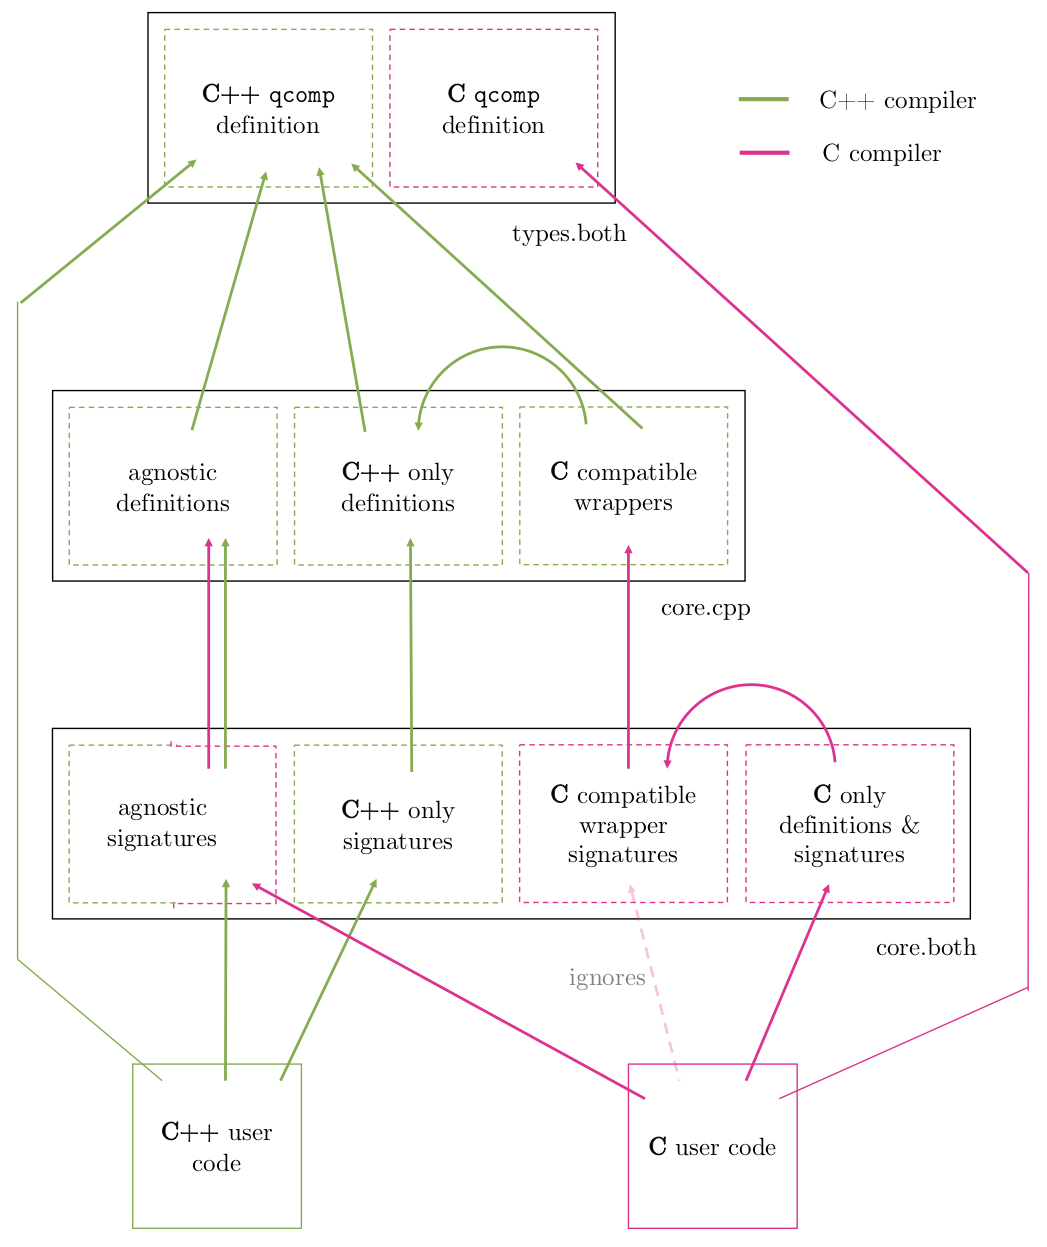
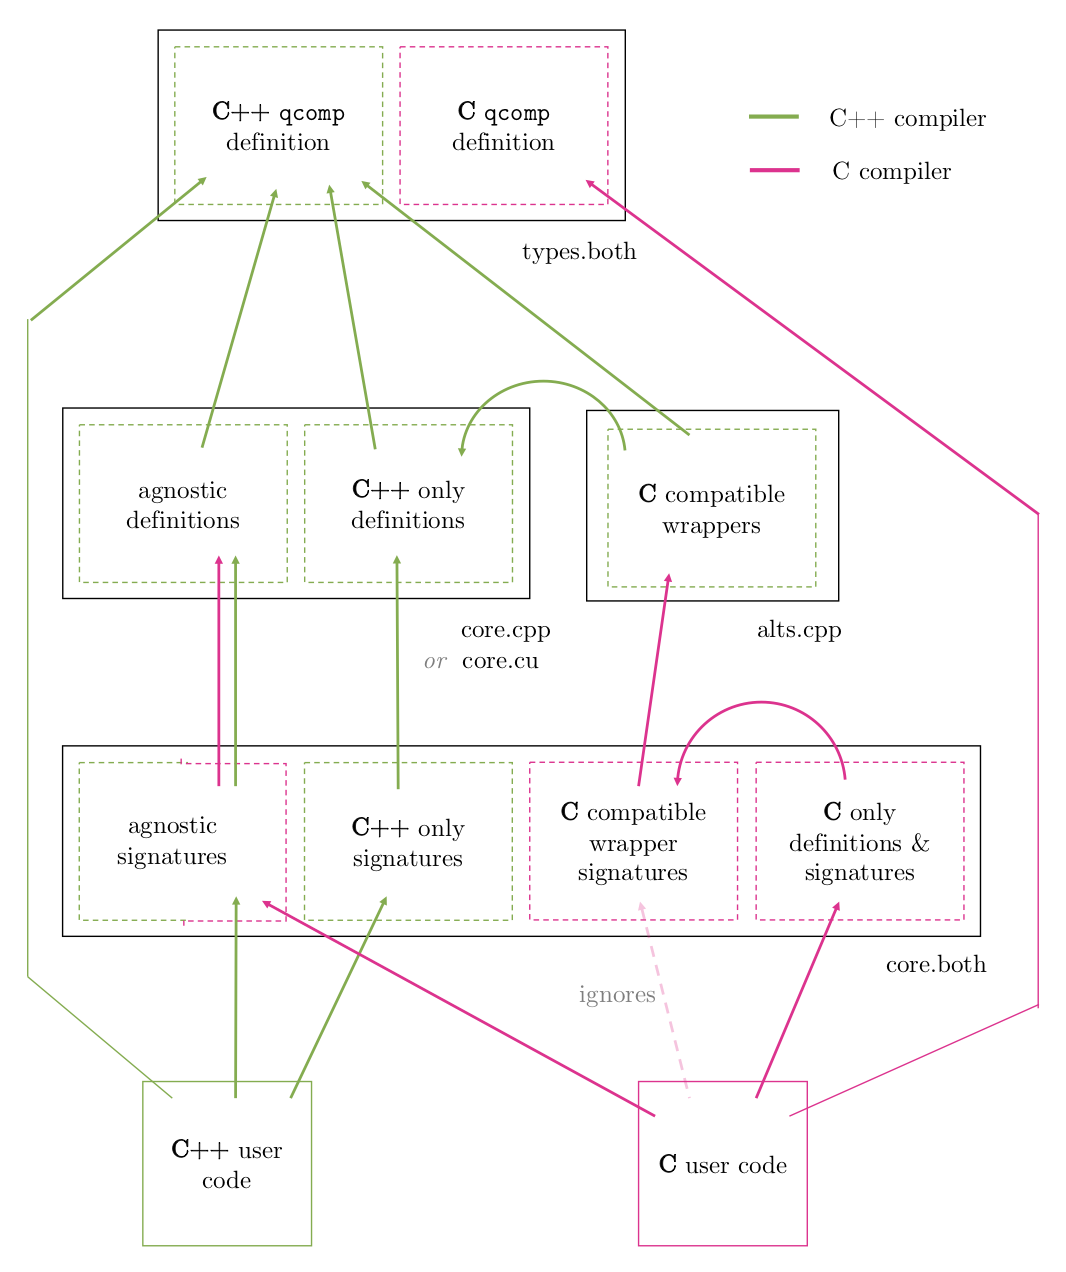
separated C-compatible wrappers
into a new file, so that alternate backends (substitutions of core.cpp) don't need to duplicate wrappers

diff --git a/src/alts.cpp b/src/alts.cpp
@@ -1,0 +1,28 @@
+/*
+ * This file contains C-friendly wrappers around the C++ functions
+ * which cannot be directly called from C before they pass or receive
+ * qcomp by-value. This file is always pre-compiled in C++ before 
+ * compiling user code (in C or C++). Here, qcomp is always 
+ * resolved to the C++ complex type. We disable name-mangling 
+ * (via extern "C") so that a user's C code can use these functions.
+ * These "alternatives" are defined here so that core.cpp (and
+ * other backends, like core.cu) don't need to duplicate wrappers.
+ */
+
+#include "core.both"
+
+
+// disable name-mangling so the below symbols, once compiled by the
+// C++ compiler, are accessible to the c program
+extern "C" {
+
+    // C-friendly alternatives to the C++ funcs which handle qcomp values
+    double myDoubleFunc_alt(qcomp* a) {
+        return myDoubleFunc(*a);
+    }
+    void myCompFunc_alt(qcomp* out, qcomp *in) {
+        *out = myCompFunc(*in);
+    }
+
+// end de-mangler
+}

diff --git a/src/core.cpp b/src/core.cpp
@@ -9,8 +9,8 @@
 
 
 // functions which pass or return the C++ type by-value can only be called
-// directly by a C++ binary; we will define C-friendly alternatives for them below,
-// which will be wrapped by C in the core header to achieve the same signature
+// directly by a C++ binary; we define C-friendly alternatives for them in alts.cpp,
+// which will be wrapped by C in the core header to achieve the same signature as here
 qcomp myCompFunc(qcomp a) {
     return a + a;
 }
@@ -34,14 +34,6 @@ extern "C" {
         for (int i=0; i<len; i++)
             r += real(arr[i]);
         return r;
-    }
-
-    // C-friendly alternatives to the C++ funcs which handle qcomp values
-    double myDoubleFunc_alt(qcomp* a) {
-        return myDoubleFunc(*a);
-    }
-    void myCompFunc_alt(qcomp* out, qcomp *in) {
-        *out = myCompFunc(*in);
     }
 
 // end de-mangler

diff --git a/README.md b/README.md
@@ -11,8 +11,9 @@ Our requirements are:
 
 This repo contains files:
 - [`src/types.both`](src/types.both) which defines `qcomp = std::complex<double>` (`C++` type) or `qcomp = double complex` (`C` type)
-- [`src/core.cpp`](src/core.cpp) which defines all backend functions using strictly `qcomp = std::complex<double>` (`C++` type). It also defines some C-compatible wrappers.
-- [`src/core.both`](src/core.both) which declares only compiler-compatible functions to the parsing compiler. It defines `C`-only wrappers of `src/core.cpp`'s C-compatible wrappers.
+- [`src/core.cpp`](src/core.cpp) which defines all backend functions using strictly `qcomp = std::complex<double>` (`C++` type). It includes all functions which are agnostic to `C` and `C++`, and functions only callable directly by `C++`.
+- [`src/alts.cpp`](src/alts.cpp) defines `C`-compatible wrappers for the functions in `core.cpp` which are only directly callable by `C++`.
+- [`src/core.both`](src/core.both) which declares only compiler-compatible functions to the parsing compiler. It defines `C`-only wrappers of `src/alt.cpp`'s C-compatible wrappers.
 - [`main.cpp`](main.cpp) which is an example `C++` user's code
 - [`main.c`](main.c) which is an example `C` user's code
 - [`compile.sh`](compile.sh) which compiles both user's codes
